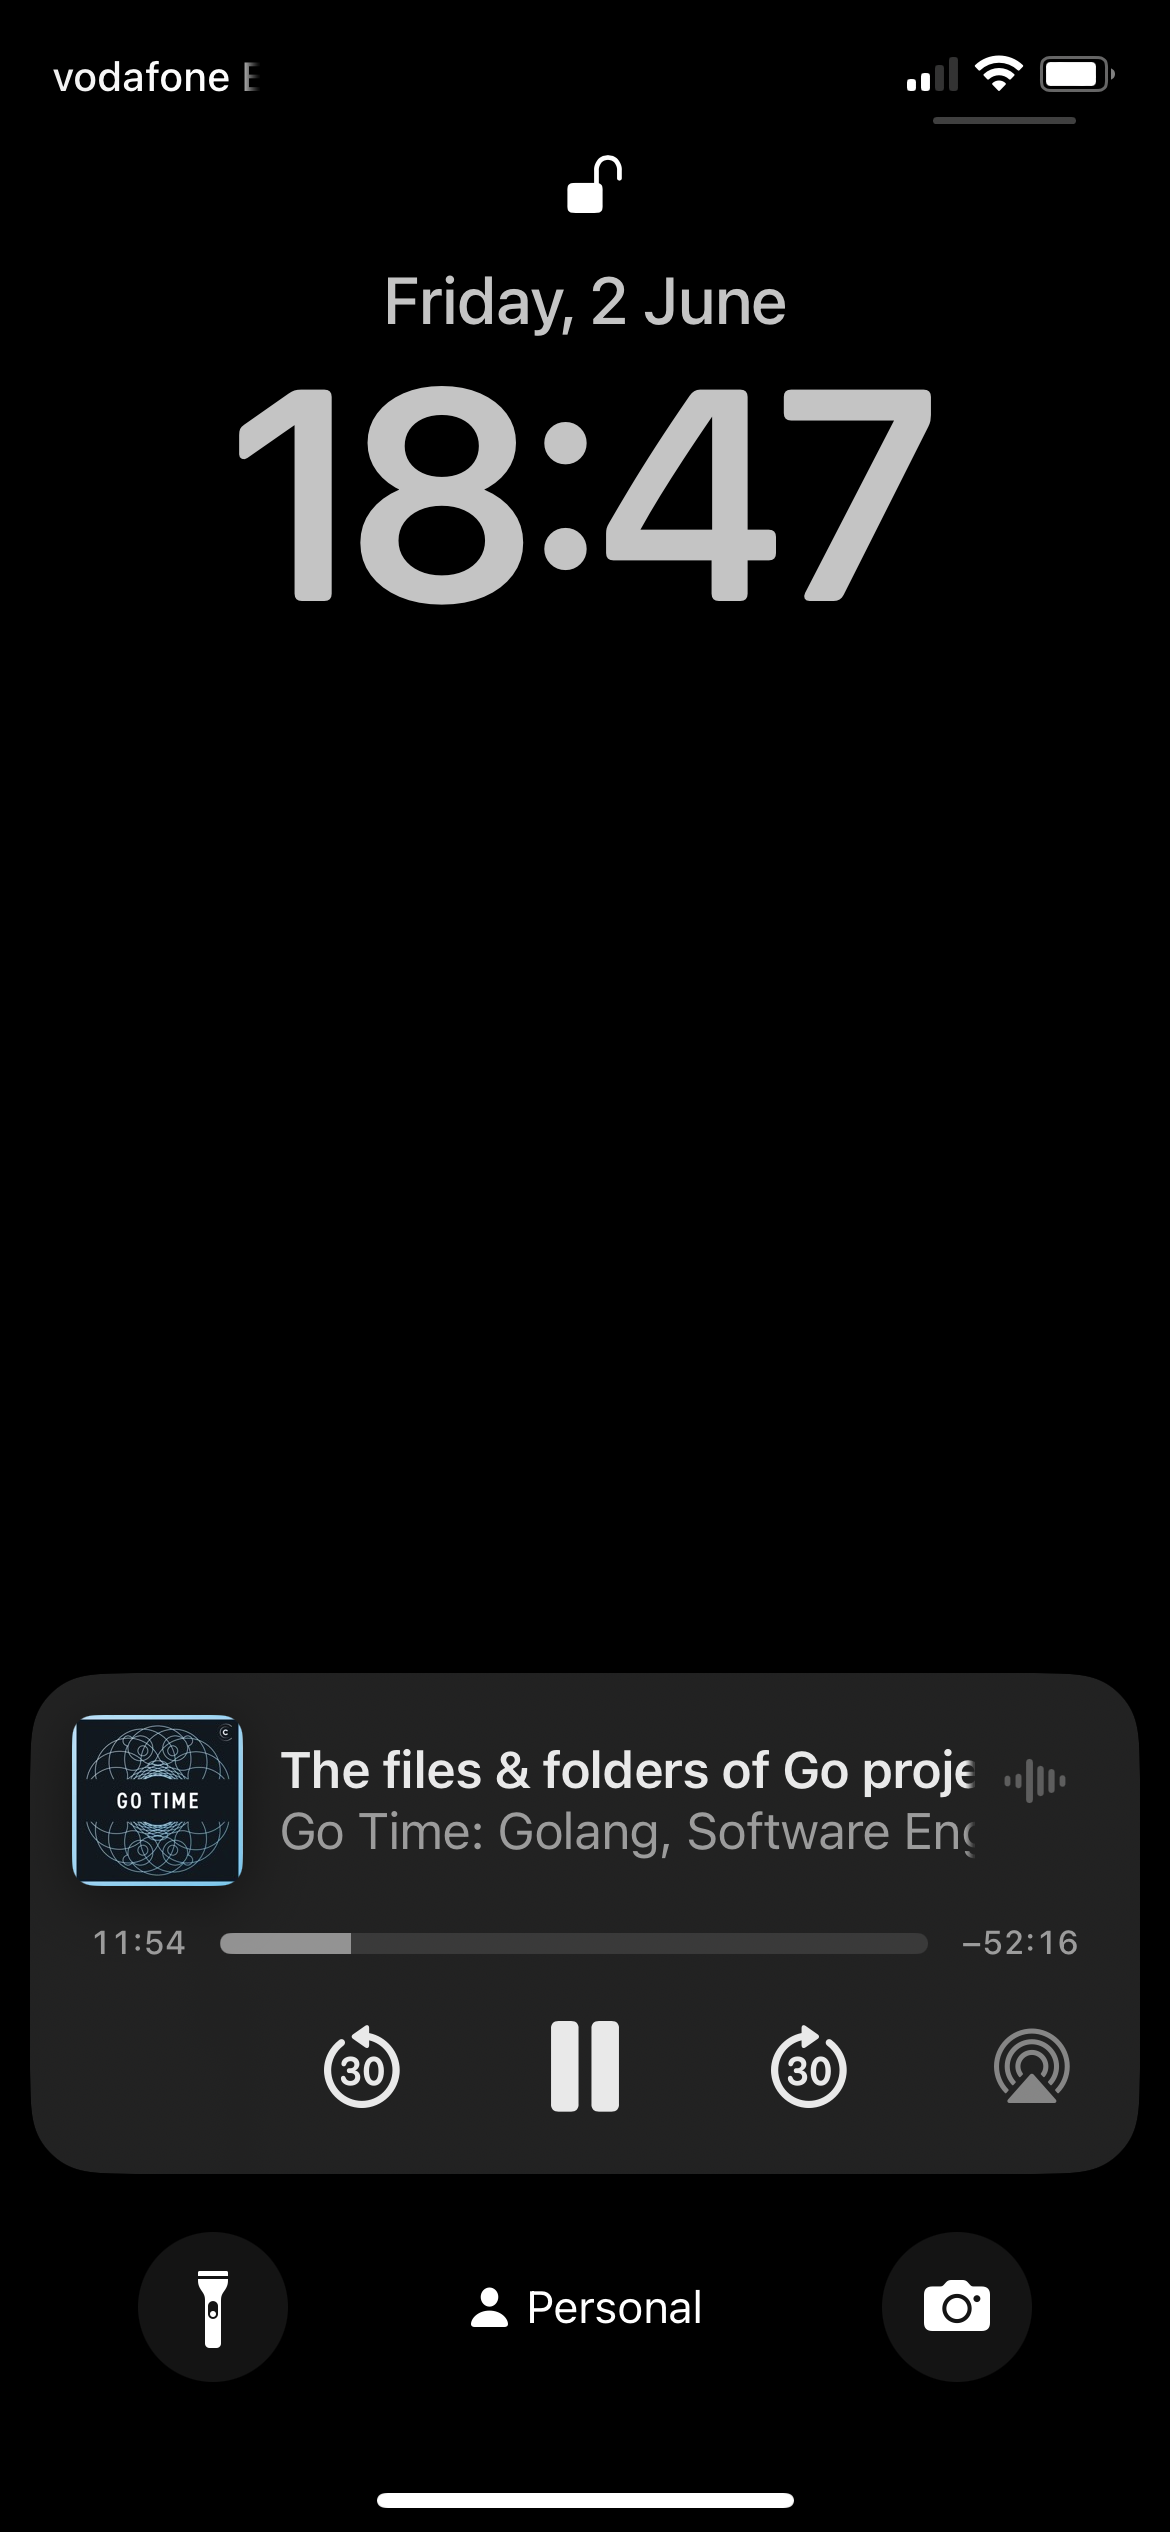
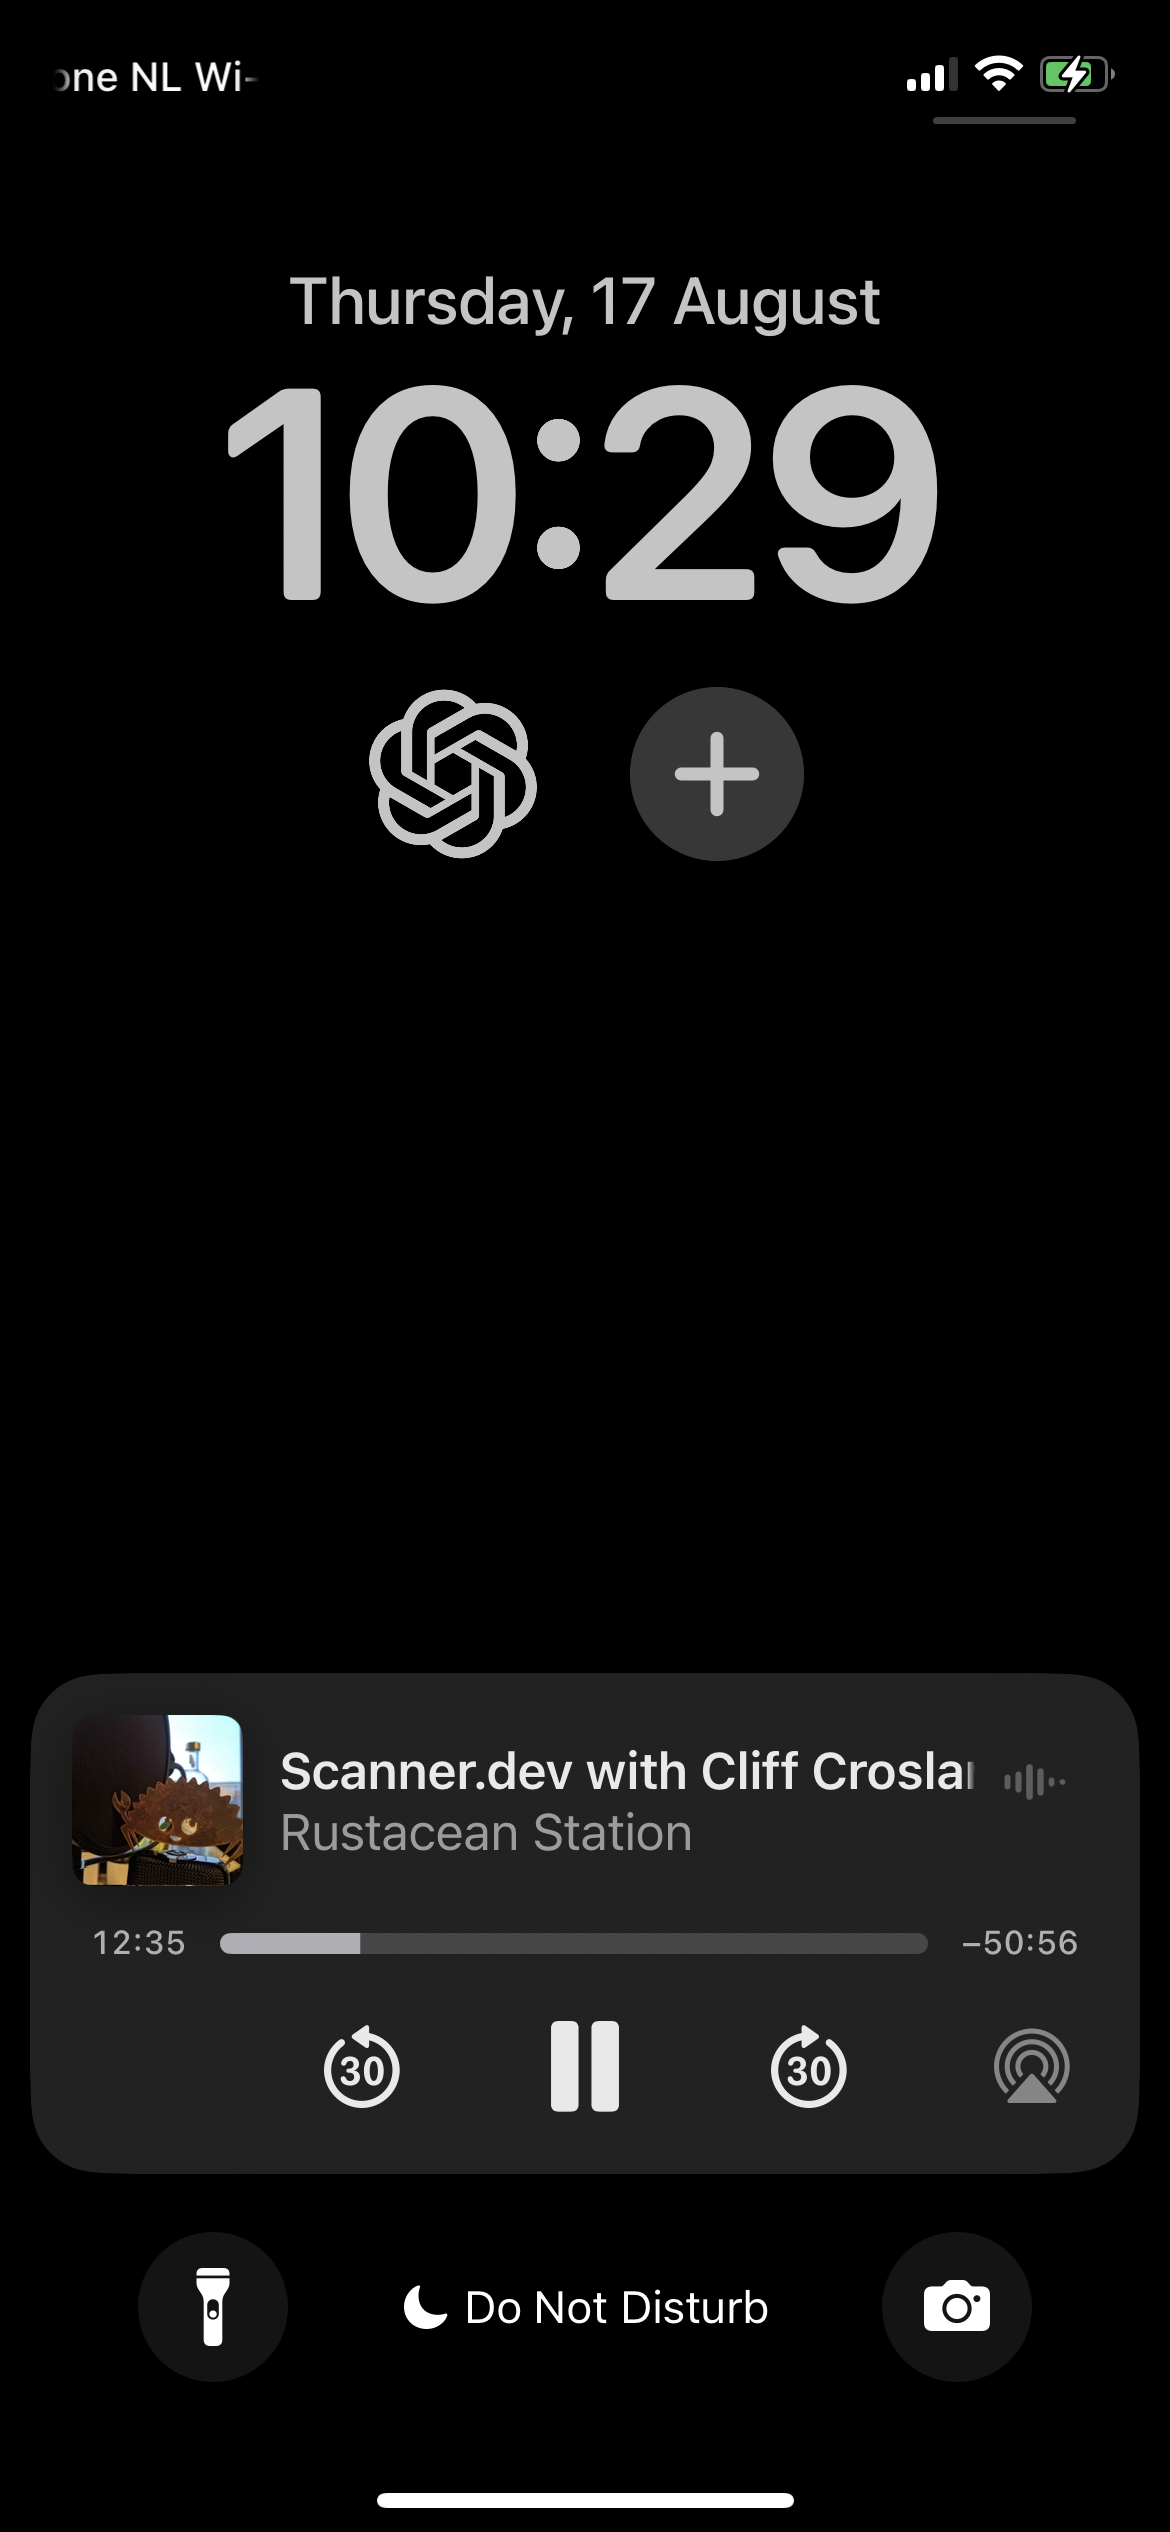
.

diff --git a/readme.md b/readme.md
@@ -85,14 +85,19 @@ I minimize push notifications I actually receive to only messaging apps. Mostly 
 
 ## Widgets
 
-Here are the widgets I use:
+I use 2 widgets in lock screen.
+
+- Create new task with [Things](https://culturedcode.com/things/)
+- Chat with [ChatGPT](https://apps.apple.com/us/app/chatgpt/id6448311069)
+
+I keep common shortcut actions as widgets on the side (just need to scroll left to access):
 
 <a align="center" href="https://github.com/nikitavoloboev/my-ios">
     <img width="250" helgth="400" src="https://images.nikiv.dev/my-ios-shortcuts.png"></a>
 
 ## Shortcuts
 
-I color all [shortcuts](https://support.apple.com/guide/shortcuts/welcome/ios) I use with gray color for consistency. All the top shortcuts I use are activated with widgets (as seen above).
+I color all [shortcuts](https://support.apple.com/guide/shortcuts/welcome/ios) I use with gray color for consistency.
 
 - [Translate](https://www.icloud.com/shortcuts/fdaecce3abdd424c97cfb2b62cad8e4d) - Open Google Translate.
 - [Event](https://www.icloud.com/shortcuts/4b73f41a0f97415ba13ca93c47e54b2b) - Create new event with Fantastical.
@@ -126,6 +131,13 @@ Here is how my control center looks:
 
 <a align="center" href="https://github.com/nikitavoloboev/my-ios">
     <img width="250" heigth="400" src="https://i.imgur.com/JFxssYt.jpg"></a>
+
+## Third page for testing apps
+
+I only use the 2 pages of apps and that's enough. The third page is mostly used as a way to test out new apps or develop apps of my own.
+
+<a align="center" href="https://github.com/nikitavoloboev/my-ios">
+    <img width="250" heigth="400" src="https://raw.githubusercontent.com/nikitavoloboev/my-ios/main/4.png"></a>
 
 ## WatchOS
 
